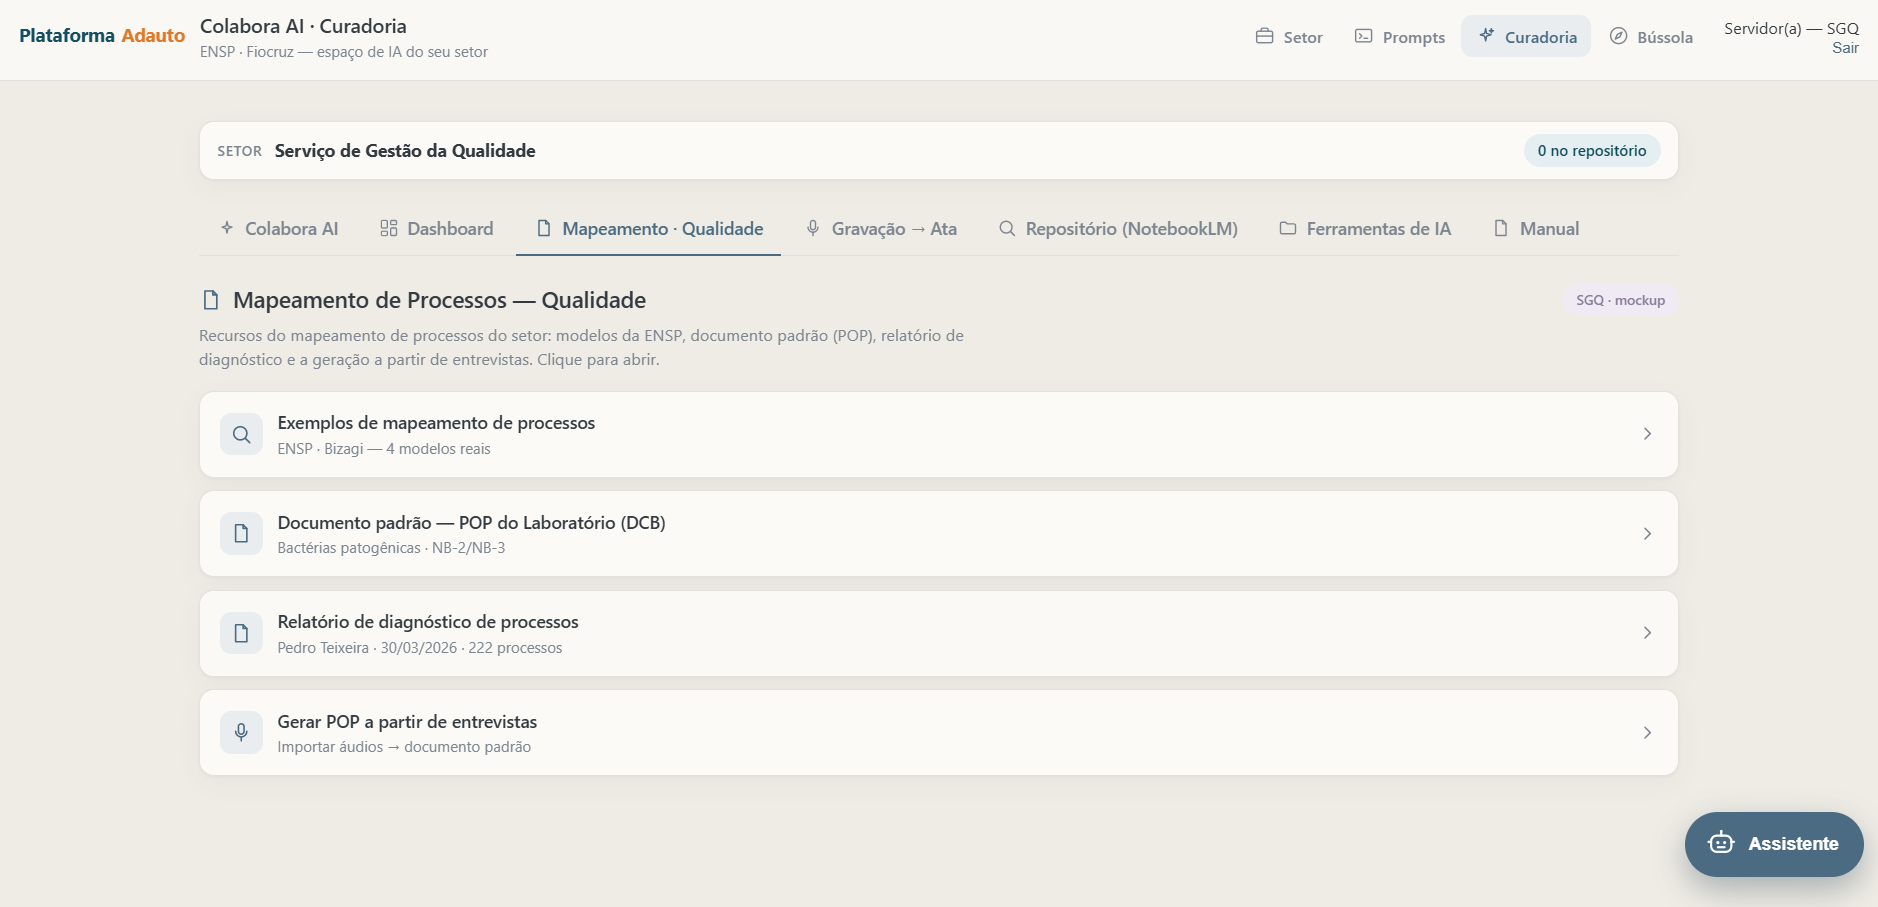
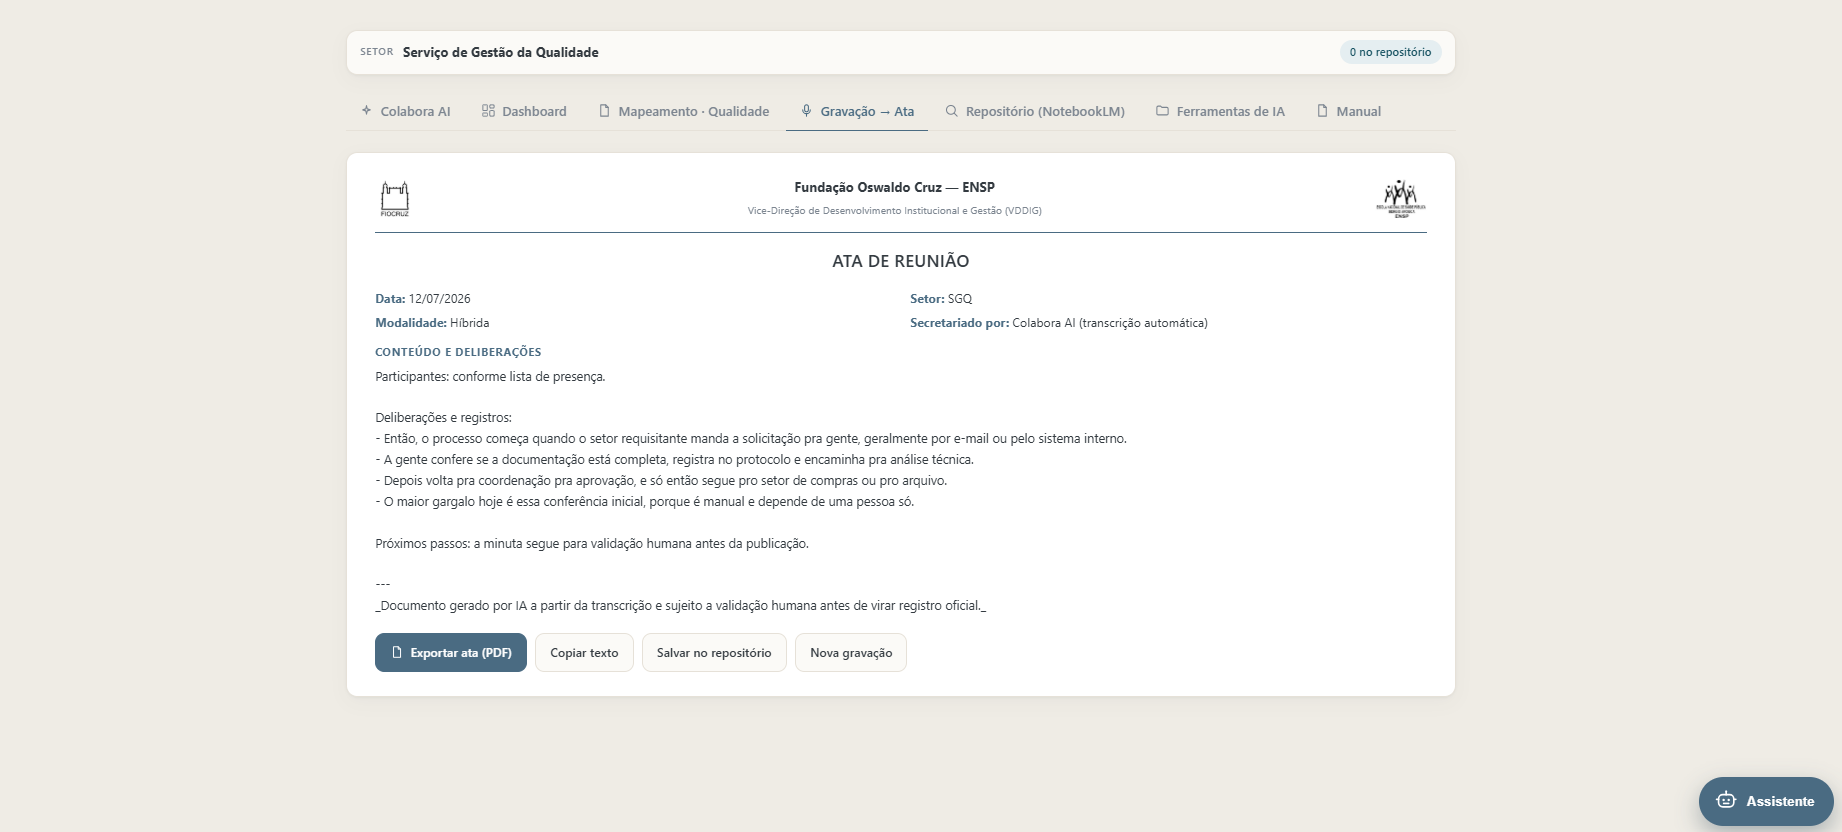
feat: fluxo "do audio ao documento" na aba e no Manual + prints atualizados
- FluxoAudioDoc: componente SVG nordico nativo (duas entradas: gravar / importar
  audio -> transcrever -> validar[humano] -> gerar -> ata/mapeamento/relatorio)
- abre a aba "Gravacao -> Ata" no estado inicial; classe .fluxo-doc no index.css
- Manual do Setor: figura do fluxo + passo a passo atualizado (importar audio e
  validacao humana editavel)
- prints reais atualizados: gravacao-ata, ata-direcao, mapeamento-qualidade

diff --git a/frontend/src/components/FluxoAudioDoc.tsx b/frontend/src/components/FluxoAudioDoc.tsx
@@ -1,0 +1,131 @@
+/* ------------------------------------------------------------------ *
+ * Fluxo "do áudio ao documento" — figura nórdica nativa (SVG).
+ * Duas entradas (gravar reunião OU importar áudio de entrevistas) →
+ * transcrever → validar (etapa humana) → gerar ata / mapeamento / relatório.
+ * Reutilizado na abertura da aba "Gravação → Ata" e no Manual (nítido no PDF).
+ * ------------------------------------------------------------------ */
+export default function FluxoAudioDoc() {
+  return (
+    <div
+      className="fluxo-doc"
+      role="group"
+      aria-label="Fluxo: gravar ou importar áudio, transcrever, validar e gerar documento"
+    >
+      <svg viewBox="0 0 1000 470" xmlns="http://www.w3.org/2000/svg" role="img">
+        <title>Fluxo do áudio ao documento</title>
+        <desc>Gravar reunião ou importar áudio de entrevistas, transcrever, validar (etapa humana) e gerar ata, mapeamento de processo ou relatório.</desc>
+        <defs>
+          <marker id="fluxoArw" viewBox="0 0 10 10" refX="7.5" refY="5" markerWidth="7" markerHeight="7" orient="auto-start-reverse">
+            <path d="M0,0 L10,5 L0,10 z" fill="#4a6b82" />
+          </marker>
+        </defs>
+
+        <rect x="6" y="6" width="988" height="458" rx="26" fill="#f2e9d6" stroke="#e7dabf" />
+
+        <text x="42" y="50" fontSize="23" fontWeight="700" fill="#33495a">Do áudio ao documento</text>
+        <text x="958" y="50" textAnchor="end" fontSize="15" fontWeight="700"><tspan fill="#124f63">Plataforma </tspan><tspan fill="#e07a2b">Adauto</tspan></text>
+
+        <g transform="translate(28,70)" fill="none" stroke="#9aa9b2" strokeWidth="1.6" strokeLinecap="round" strokeLinejoin="round" opacity="0.9">
+          <path d="M4 5h16a1 1 0 0 1 1 1v8a1 1 0 0 1-1 1H9l-4 4v-4H4a1 1 0 0 1-1-1V6a1 1 0 0 1 1-1Z" strokeDasharray="2.5 2.5" />
+          <circle cx="9" cy="10.5" r="0.9" fill="#9aa9b2" stroke="none" /><circle cx="12.5" cy="10.5" r="0.9" fill="#9aa9b2" stroke="none" /><circle cx="16" cy="10.5" r="0.9" fill="#9aa9b2" stroke="none" />
+        </g>
+        <g transform="translate(292,118)" fill="none" stroke="#e07a2b" strokeWidth="1.6" strokeLinecap="round" strokeLinejoin="round">
+          <path d="M12 3a6 6 0 0 0-4 10c.7.7 1.1 1.4 1 2h6c-.1-.6.3-1.3 1-2a6 6 0 0 0-4-10Z" />
+          <line x1="9.5" y1="19" x2="14.5" y2="19" /><line x1="10.5" y1="21.5" x2="13.5" y2="21.5" />
+        </g>
+        <g transform="translate(500,118)" fill="none" stroke="#9aa9b2" strokeWidth="1.5" strokeLinecap="round" strokeLinejoin="round">
+          <circle cx="12" cy="12" r="3.4" />
+          <path d="M12 4.5v-2 M12 21.5v-2 M4.5 12h-2 M21.5 12h-2 M6.2 6.2l-1.4-1.4 M18.9 18.9l-1.4-1.4 M17.8 6.2l1.4-1.4 M5.1 18.9l1.4-1.4" />
+        </g>
+        <g transform="translate(684,150)" fill="none" stroke="#4a6b82" strokeWidth="1.5" strokeLinecap="round" strokeLinejoin="round">
+          <rect x="7" y="7" width="10" height="10" rx="2" />
+          <path d="M10 4v3 M14 4v3 M10 17v3 M14 17v3 M4 10h3 M4 14h3 M17 10h3 M17 14h3" />
+          <text x="12" y="14.6" fontSize="5.4" fontWeight="700" fill="#4a6b82" stroke="none" textAnchor="middle">AI</text>
+        </g>
+
+        <text x="117" y="140" textAnchor="middle" fontSize="11" fontWeight="700" letterSpacing="1.5" fill="#9aa9b2">ENTRADA</text>
+
+        <path d="M192,190 C224,190 226,214 248,224" stroke="#4a6b82" strokeWidth="2.2" strokeDasharray="5 6" fill="none" markerEnd="url(#fluxoArw)" />
+        <path d="M192,288 C224,288 226,264 248,254" stroke="#4a6b82" strokeWidth="2.2" strokeDasharray="5 6" fill="none" markerEnd="url(#fluxoArw)" />
+        <path d="M400,239 H458" stroke="#4a6b82" strokeWidth="2.2" strokeDasharray="5 6" fill="none" markerEnd="url(#fluxoArw)" />
+        <path d="M608,239 H646" stroke="#4a6b82" strokeWidth="2.2" strokeDasharray="5 6" fill="none" markerEnd="url(#fluxoArw)" />
+        <path d="M744,239 C772,239 776,157 796,157" stroke="#4a6b82" strokeWidth="2" strokeDasharray="5 6" fill="none" markerEnd="url(#fluxoArw)" />
+        <path d="M744,239 H796" stroke="#4a6b82" strokeWidth="2" strokeDasharray="5 6" fill="none" markerEnd="url(#fluxoArw)" />
+        <path d="M744,239 C772,239 776,321 796,321" stroke="#4a6b82" strokeWidth="2" strokeDasharray="5 6" fill="none" markerEnd="url(#fluxoArw)" />
+
+        <g transform="translate(42,148)">
+          <rect width="150" height="84" rx="14" fill="#fff" stroke="#e6e1d8" />
+          <path d="M0,14 A14,14 0 0 1 14,0 H136 A14,14 0 0 1 150,14 V26 H0 Z" fill="#4a6b82" />
+          <circle cx="16" cy="13" r="2.3" fill="#fff" opacity="0.9" /><circle cx="26" cy="13" r="2.3" fill="#fff" opacity="0.9" /><circle cx="36" cy="13" r="2.3" fill="#fff" opacity="0.9" />
+          <g transform="translate(75,46) scale(1.2) translate(-12,-12)" fill="none" stroke="#4a6b82" strokeWidth="1.6" strokeLinecap="round" strokeLinejoin="round">
+            <rect x="9" y="3" width="6" height="11" rx="3" /><path d="M6 11a6 6 0 0 0 12 0" /><line x1="12" y1="17" x2="12" y2="21" />
+          </g>
+          <text x="75" y="74" textAnchor="middle" fontSize="13" fontWeight="700" fill="#33495a">Gravar</text>
+        </g>
+
+        <g transform="translate(42,246)">
+          <rect width="150" height="84" rx="14" fill="#fff" stroke="#e6e1d8" />
+          <path d="M0,14 A14,14 0 0 1 14,0 H136 A14,14 0 0 1 150,14 V26 H0 Z" fill="#4a6b82" />
+          <circle cx="16" cy="13" r="2.3" fill="#fff" opacity="0.9" /><circle cx="26" cy="13" r="2.3" fill="#fff" opacity="0.9" /><circle cx="36" cy="13" r="2.3" fill="#fff" opacity="0.9" />
+          <g transform="translate(75,45) scale(1.2) translate(-12,-12)" fill="none" stroke="#4a6b82" strokeWidth="1.6" strokeLinecap="round" strokeLinejoin="round">
+            <path d="M12 3v9" /><polyline points="8.5 8.5 12 12 15.5 8.5" /><path d="M5 14v3a2 2 0 0 0 2 2h10a2 2 0 0 0 2-2v-3" />
+          </g>
+          <text x="75" y="74" textAnchor="middle" fontSize="13" fontWeight="700" fill="#33495a">Importar áudio</text>
+        </g>
+        <text x="117" y="348" textAnchor="middle" fontSize="12" fill="#7c8590">entrevistas gravadas</text>
+
+        <g transform="translate(250,180)">
+          <rect width="150" height="118" rx="14" fill="#ffffff" stroke="#e6e1d8" />
+          <path d="M0,14 A14,14 0 0 1 14,0 H136 A14,14 0 0 1 150,14 V26 H0 Z" fill="#4a6b82" />
+          <circle cx="16" cy="13" r="2.3" fill="#fff" opacity="0.9" /><circle cx="26" cy="13" r="2.3" fill="#fff" opacity="0.9" /><circle cx="36" cy="13" r="2.3" fill="#fff" opacity="0.9" />
+          <g transform="translate(75,58) scale(1.5) translate(-12,-12)" fill="none" stroke="#4a6b82" strokeWidth="1.6" strokeLinecap="round" strokeLinejoin="round">
+            <rect x="6" y="8" width="12" height="9" rx="3" /><line x1="12" y1="4" x2="12" y2="8" /><circle cx="12" cy="3.3" r="1.1" /><circle cx="9.6" cy="12.5" r="1.1" /><circle cx="14.4" cy="12.5" r="1.1" /><line x1="4" y1="12" x2="6" y2="12" /><line x1="18" y1="12" x2="20" y2="12" />
+          </g>
+          <text x="75" y="104" textAnchor="middle" fontSize="15" fontWeight="700" fill="#33495a">Transcrever</text>
+        </g>
+        <text x="325" y="316" textAnchor="middle" fontSize="12" fill="#7c8590">IA · no seu computador</text>
+
+        <g transform="translate(458,180)">
+          <rect width="150" height="118" rx="14" fill="#ffffff" stroke="#cfdac6" />
+          <path d="M0,14 A14,14 0 0 1 14,0 H136 A14,14 0 0 1 150,14 V26 H0 Z" fill="#6f8f6a" />
+          <circle cx="16" cy="13" r="2.3" fill="#fff" opacity="0.9" /><circle cx="26" cy="13" r="2.3" fill="#fff" opacity="0.9" /><circle cx="36" cy="13" r="2.3" fill="#fff" opacity="0.9" />
+          <g transform="translate(75,57) scale(1.55) translate(-12,-12)" fill="none" stroke="#6f8f6a" strokeWidth="1.7" strokeLinecap="round" strokeLinejoin="round">
+            <circle cx="12" cy="12" r="8.5" /><polyline points="8 12 11 15 16 9" />
+          </g>
+          <text x="75" y="104" textAnchor="middle" fontSize="15" fontWeight="700" fill="#4e6b48">Validar</text>
+        </g>
+        <text x="533" y="316" textAnchor="middle" fontSize="12" fill="#7c8590">você confere o texto</text>
+
+        <rect x="650" y="219" width="94" height="40" rx="20" fill="#4a6b82" />
+        <g transform="translate(672,239) scale(0.82) translate(-12,-12)" fill="none" stroke="#fff" strokeWidth="1.7" strokeLinecap="round" strokeLinejoin="round">
+          <path d="M6 3h8l4 4v14H6Z" /><polyline points="14 3 14 7 18 7" />
+        </g>
+        <text x="692" y="244" fontSize="14" fontWeight="700" fill="#fff">Gerar</text>
+
+        <g transform="translate(798,137)">
+          <rect width="190" height="40" rx="12" fill="#fff" stroke="#e6e1d8" />
+          <rect x="8" y="7" width="4" height="26" rx="2" fill="#4a6b82" />
+          <g transform="translate(30,20) scale(0.78) translate(-12,-12)" fill="none" stroke="#4a6b82" strokeWidth="1.7" strokeLinecap="round" strokeLinejoin="round"><path d="M6 3h8l4 4v14H6Z" /><polyline points="14 3 14 7 18 7" /></g>
+          <text x="48" y="24.5" fontSize="13" fontWeight="700" fill="#33495a">Ata de reunião</text>
+        </g>
+        <g transform="translate(798,219)">
+          <rect width="190" height="40" rx="12" fill="#fff" stroke="#e6e1d8" />
+          <rect x="8" y="7" width="4" height="26" rx="2" fill="#8a7c9a" />
+          <g transform="translate(30,20) scale(0.78) translate(-12,-12)" fill="none" stroke="#8a7c9a" strokeWidth="1.7" strokeLinecap="round" strokeLinejoin="round"><path d="M6 3h8l4 4v14H6Z" /><polyline points="14 3 14 7 18 7" /></g>
+          <text x="48" y="24.5" fontSize="12.5" fontWeight="700" fill="#33495a">Mapeamento de processo</text>
+        </g>
+        <g transform="translate(798,301)">
+          <rect width="190" height="40" rx="12" fill="#fff" stroke="#e6e1d8" />
+          <rect x="8" y="7" width="4" height="26" rx="2" fill="#b06a56" />
+          <g transform="translate(30,20) scale(0.78) translate(-12,-12)" fill="none" stroke="#b06a56" strokeWidth="1.7" strokeLinecap="round" strokeLinejoin="round"><path d="M6 3h8l4 4v14H6Z" /><polyline points="14 3 14 7 18 7" /></g>
+          <text x="48" y="24.5" fontSize="13" fontWeight="700" fill="#33495a">Relatório</text>
+        </g>
+
+        <g transform="translate(42,432)">
+          <circle cx="6" cy="-4" r="5" fill="#6f8f6a" />
+          <text x="18" y="0" fontSize="12.5" fill="#7c8590">Verde = etapa com validação humana · o áudio é descartado após a transcrição</text>
+        </g>
+      </svg>
+    </div>
+  )
+}

diff --git a/frontend/src/manual/ManualSetor.tsx b/frontend/src/manual/ManualSetor.tsx
@@ -1,4 +1,5 @@
 import { Hotword, ManualShell, Print, SumarioItem } from './kit'
+import FluxoAudioDoc from '../components/FluxoAudioDoc'
 
 /* ------------------------------------------------------------------ *
  * Manual do Usuário — Espaço do Setor.
@@ -352,38 +353,46 @@ export default function ManualSetor() {
         <section id="cap-5" className="manual-sec">
           <h2>5. Gravação → Ata: reuniões viram ata</h2>
           <p>
-            A aba <strong>Gravação → Ata</strong> grava a sua reunião e usa a IA para{' '}
+            A aba <strong>Gravação → Ata</strong> registra a fala — <strong>gravando a reunião ao
+            vivo</strong> ou <strong>importando o áudio de uma entrevista</strong> já gravada — e usa
+            a IA para{' '}
             <Hotword termo="transcrever">
               Passar a fala para texto automaticamente — em vez de você digitar tudo o que foi dito.
             </Hotword>{' '}
-            o áudio e montar uma{' '}
+            o áudio. Você <strong>revisa o texto</strong> (validação humana) e a plataforma monta a{' '}
             <Hotword termo="ata">
               O documento oficial que registra uma reunião: participantes, pauta, decisões,
               responsáveis e prazos.
             </Hotword>{' '}
-            já no modelo padrão da VDDIG.
+            no modelo padrão da VDDIG, com o timbre Fiocruz/ENSP.
           </p>
-          <Print arquivo="gravacao-ata.png" legenda="Aba Gravação → Ata — gravar e gerar a ata" />
+
+          <h3 className="manual-subtitulo">Como funciona, em um olhar</h3>
+          <FluxoAudioDoc />
+
+          <Print arquivo="gravacao-ata.png" legenda="Aba Gravação → Ata — gravar ou importar áudio e gerar a ata" />
 
           <h3 className="manual-subtitulo">Passo a passo</h3>
           <ol className="manual-passos">
             <li>
-              Abra a aba <strong>Gravação → Ata</strong>. (Você também chega aqui pelo{' '}
-              <strong>microfone</strong> ou pelo modo <strong>Reunião → Ata</strong> do Colabora AI.)
+              Abra a aba <strong>Gravação → Ata</strong>.
             </li>
             <li>
-              Clique em <strong>Gravar reunião em tempo real</strong> e deixe gravando enquanto a
-              reunião acontece.
+              Escolha a entrada: <strong>Gravar reunião ao vivo</strong> (grava pelo microfone) ou{' '}
+              <strong>Enviar áudio (entrevista)</strong> para transcrever um arquivo já gravado.
             </li>
             <li>
-              Ao terminar, clique em <strong>Parar e transcrever</strong>. A IA transcreve o áudio e
-              organiza a ata: data, participantes, pauta, deliberações (com responsáveis e prazos) e
-              próximos passos.
+              A IA <strong>transcreve o áudio</strong> — localmente, no computador. O texto aparece
+              numa <strong>caixa editável</strong>.
             </li>
             <li>
-              <strong>Revise</strong> o texto — a decisão é sempre humana. Depois você pode{' '}
-              <strong>Exportar ata (PDF)</strong>, <strong>Copiar texto</strong> ou{' '}
-              <strong>Salvar no repositório</strong>.
+              <strong>Validação humana:</strong> revise e corrija a transcrição e confira o{' '}
+              <strong>setor</strong>. Nada vira registro oficial sem a sua conferência.
+            </li>
+            <li>
+              Clique em <strong>Gerar ata</strong>: a plataforma monta a ata no modelo da VDDIG, com o
+              timbre Fiocruz/ENSP. Depois você pode <strong>Exportar (PDF)</strong>,{' '}
+              <strong>Copiar texto</strong> ou <strong>Salvar no repositório</strong>.
             </li>
             <li>
               Ao salvar, a ata vai para o <strong>Repositório</strong> do setor e passa a ser
@@ -391,8 +400,9 @@ export default function ManualSetor() {
             </li>
           </ol>
           <p className="manual-dica">
-            <strong>Observação:</strong> na fase de testes, a ata aparece preenchida como exemplo. Em
-            uso oficial, a IA transcreve o áudio real da sua reunião.
+            <strong>Observação:</strong> na demonstração, a transcrição vem de um exemplo. Em uso
+            oficial, a IA transcreve o <strong>áudio real</strong> — 100% no computador, e o áudio é{' '}
+            <strong>descartado</strong> após a transcrição (só o texto é guardado).
           </p>
         </section>
 

diff --git a/frontend/src/index.css b/frontend/src/index.css
@@ -3767,6 +3767,21 @@ body {
   mix-blend-mode: multiply;
 }
 
+/* Fluxo "do áudio ao documento" (SVG nativo) — abertura da aba e figura do Manual. */
+.fluxo-doc {
+  overflow-x: auto;
+  margin: 4px 0 18px;
+  border-radius: 18px;
+  box-shadow: var(--sombra);
+}
+.fluxo-doc svg {
+  display: block;
+  width: 100%;
+  min-width: 600px;
+  height: auto;
+  border-radius: 18px;
+}
+
 /* ---------- Responsivo ---------- */
 @media (max-width: 900px) {
   .conteudo {

diff --git a/frontend/src/pages/CuradoriaIAs.tsx b/frontend/src/pages/CuradoriaIAs.tsx
@@ -13,6 +13,7 @@ import { DashboardPanorama } from './Dashboard'
 import { TerceirizadosPainel } from './TerceirizadosDiagnostico'
 import ManualSetor from '../manual/ManualSetor'
 import ManualDirecao from '../manual/ManualDirecao'
+import FluxoAudioDoc from '../components/FluxoAudioDoc'
 import {
   Bar,
   BarChart,
@@ -941,7 +942,9 @@ function ReuniaoAta({
   }
 
   return (
-    <div className="rec-box">
+    <>
+      {estado === 'idle' && <FluxoAudioDoc />}
+      <div className="rec-box">
       {estado === 'idle' && (
         <>
           <div className="rec-opcoes">
@@ -983,7 +986,8 @@ function ReuniaoAta({
           <span className="rec-spin" /> Transcrevendo o áudio{nomeArquivo ? ` (${nomeArquivo})` : ''}…
         </div>
       )}
-    </div>
+      </div>
+    </>
   )
 }
 